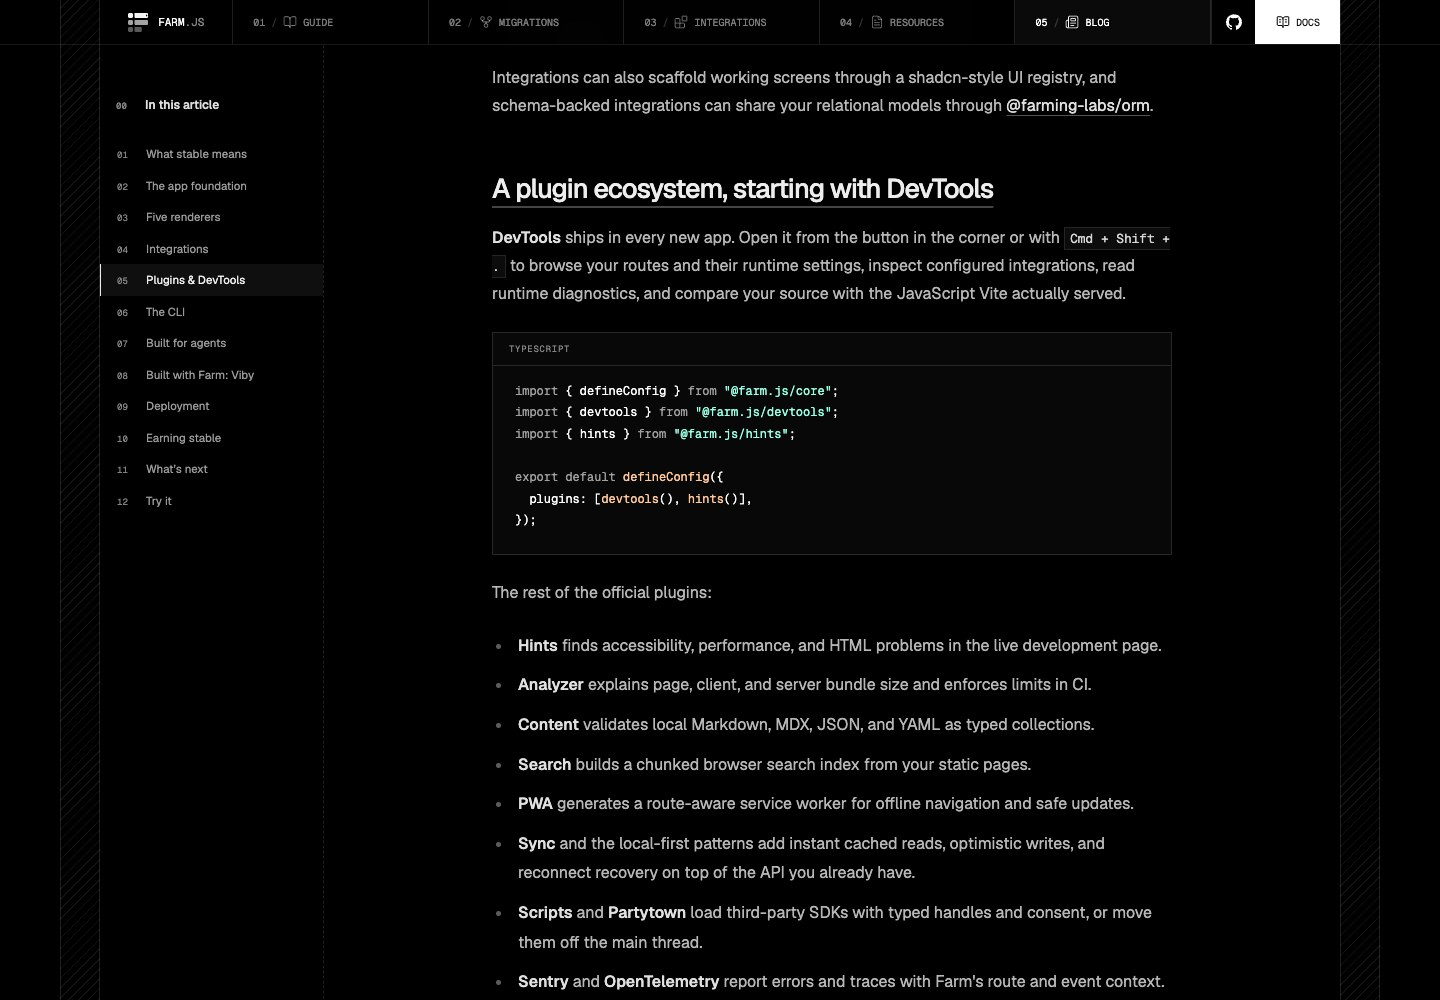
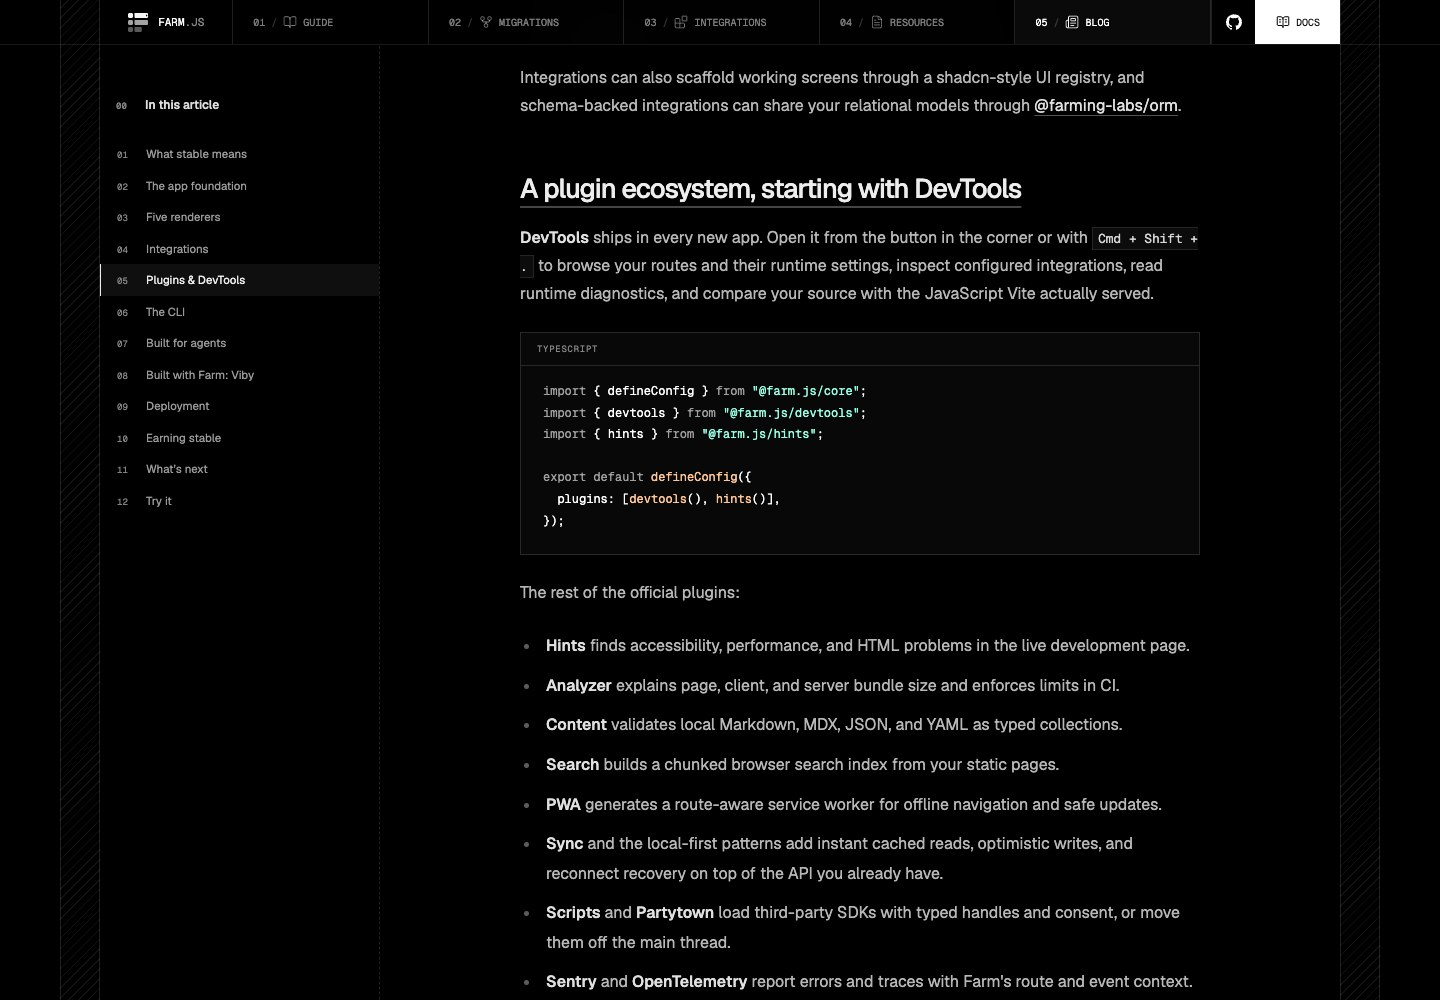
docs(blog): balance article heading and widen contents rail

diff --git a/tests/e2e-production-sites/docs.production.spec.ts b/tests/e2e-production-sites/docs.production.spec.ts
@@ -65,6 +65,13 @@ test("blog connects the journal, article, contents, and Markdown mirror", async 
   await expect(page.getByRole("heading", { level: 1 })).toHaveCount(1);
   await expect(page.getByRole("heading", { level: 1 })).toContainText("FarmJS v0.1.0");
   await expect(page.getByRole("heading", { level: 1 })).toHaveCSS("font-size", "36px");
+  await expect(page.locator(".blog-post-heading h1 br")).toHaveCount(0);
+  await expect(page.locator(".blog-post-heading h1")).toHaveCSS("text-wrap", "balance");
+  const back = page.getByRole("link", { name: "All posts", exact: true });
+  await expect(back).toHaveText("");
+  await expect(back).toHaveAttribute("href", "/blog");
+  await expect(back).toHaveCSS("width", "44px");
+  await expect(back).toHaveCSS("height", "44px");
   await expect(page.locator(".blog-art-version")).toHaveText("v 0.1.0_");
   await expect(page.locator(".blog-post-heading > p")).toHaveText(
     "Our first stable release. Built for apps and agents.",
@@ -83,6 +90,7 @@ test("blog connects the journal, article, contents, and Markdown mirror", async 
     /^intersect(?:, intersect)?$/,
   );
   const contents = page.locator(".blog-contents");
+  await expect(contents).toHaveCSS("width", "280px");
   await expect(contents.getByRole("navigation").getByRole("link")).toHaveCount(12);
   for (const href of await contents
     .getByRole("navigation")

diff --git a/docs/src/app/blog/farm-0-1/layout.tsx b/docs/src/app/blog/farm-0-1/layout.tsx
@@ -25,9 +25,8 @@ export default function LaunchPostLayout({ children }: LayoutProps) {
   return (
     <>
       <div className="blog-breadcrumb">
-        <a href="/blog">
-          <ArrowLeft aria-hidden size={14} />
-          All posts
+        <a href="/blog" aria-label="All posts" title="All posts">
+          <ArrowLeft aria-hidden size={16} />
         </a>
         <span className="blog-eyebrow">RELEASE NOTES / 001</span>
       </div>
@@ -38,11 +37,7 @@ export default function LaunchPostLayout({ children }: LayoutProps) {
             <time dateTime={launchPost.dateTime}>{launchPost.date}</time>
           </div>
           <h1>
-            FarmJS v0.1.0:
-            <br />
-            Stable, Integrated,
-            <br />
-            <span>and Agent-Native.</span>
+            FarmJS v0.1.0: Stable, Integrated, <span>and Agent-Native.</span>
           </h1>
           <p>{launchPost.description}</p>
           <div className="blog-post-byline">

diff --git a/docs/src/app/blog/blog.css b/docs/src/app/blog/blog.css
@@ -381,10 +381,11 @@
 .blog-breadcrumb a {
   display: inline-flex;
   align-items: center;
-  gap: 10px;
-  min-height: 32px;
+  justify-content: center;
+  width: 44px;
+  height: 44px;
+  margin-left: -14px;
   color: #a8a8a8;
-  font-size: 11px;
 }
 .blog-post-header {
   display: grid;
@@ -401,6 +402,7 @@
   line-height: 1.13;
   letter-spacing: -0.05em;
   margin: 24px 0 22px;
+  text-wrap: balance;
 }
 .blog-post-heading h1 > span {
   color: #929292;
@@ -425,7 +427,7 @@
 }
 .blog-reading-grid {
   display: grid;
-  grid-template-columns: 224px minmax(0, 1fr);
+  grid-template-columns: 280px minmax(0, 1fr);
 }
 .blog-contents {
   min-width: 0;
@@ -702,7 +704,7 @@
     padding-inline: 32px;
   }
   .blog-reading-grid {
-    grid-template-columns: 204px minmax(0, 1fr);
+    grid-template-columns: 240px minmax(0, 1fr);
   }
   .blog-reading-column {
     padding-inline: 32px;
